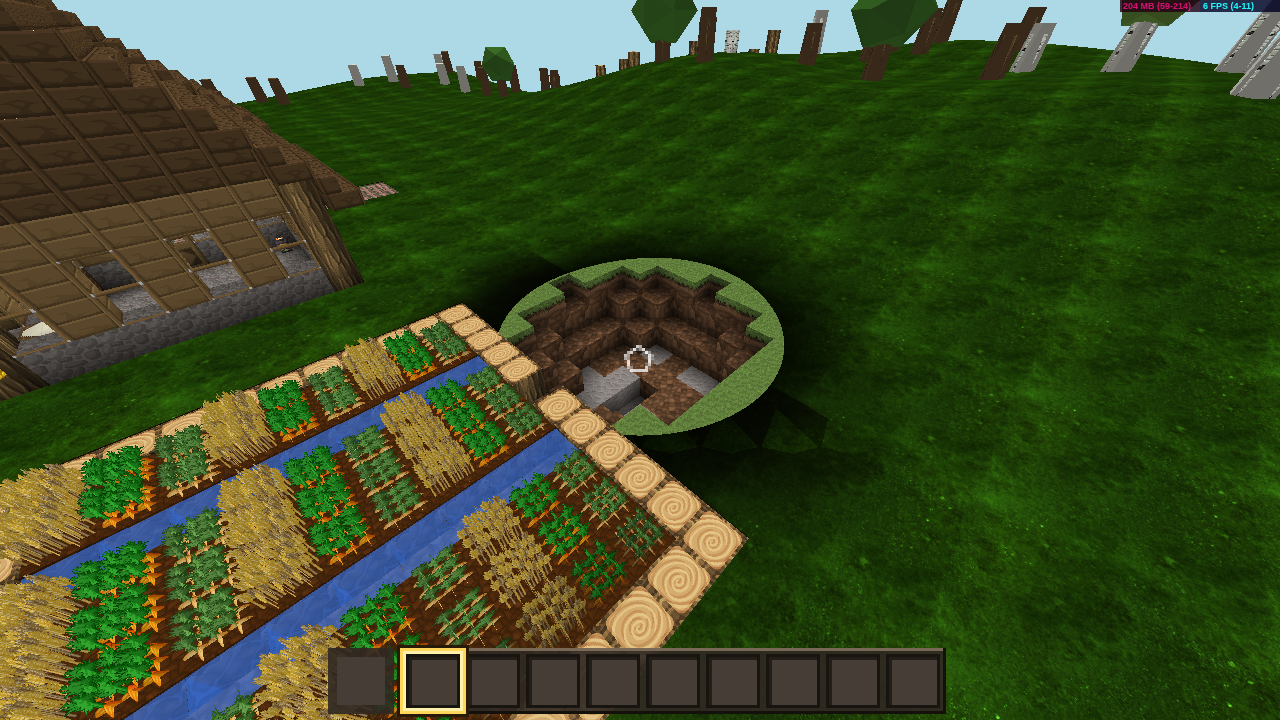
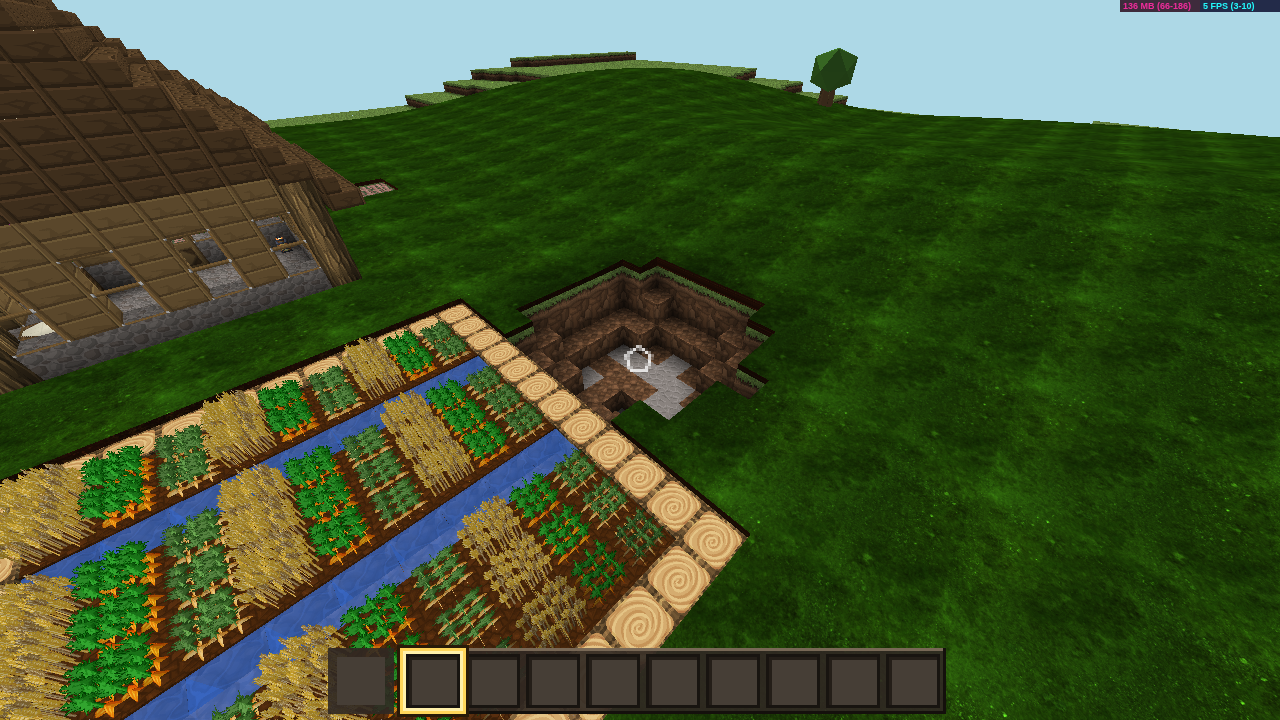
Surface: crater cut per removed block (no sphere disc, subtle scorch), no z-fighting (blocks sit below polygons), Duke faces culled from outside + skyline capped, far clip against unloaded chunks, entity cap 400; screenshots

diff --git a/src/mashup/client/dukemap.ts b/src/mashup/client/dukemap.ts
@@ -9,7 +9,7 @@ export type VoxSource = { pos: number[], idx: number[], tc: number[] }
 export async function buildDukeMap (dm: any, base: string, tiles: Record<string, { w: number, h: number, avg?: number[] }>) {
   const { m, ox, oz, G, zref } = dm
   const W = m.walls; const S = m.sectors
-  const X = (bx: number) => ox + bx / 512; const Z = (by: number) => oz + by / 512; const Y = (bz: number) => G + (zref - bz) / 8192
+  const X = (bx: number) => ox + bx / 512; const Z = (by: number) => oz + by / 512; const Y = (bz: number) => Math.min(G + 30, G + (zref - bz) / 8192) // skyline towers capped at 30 blocks
   const shadeC = (s: number) => Math.max(0.4, Math.min(1.7, 1.55 - s / 48))
   // ---- atlas
   const used = new Set<number>()
@@ -45,6 +45,12 @@ export async function buildDukeMap (dm: any, base: string, tiles: Record<string,
   const fz = (si: number, bx: number, by: number) => dm.floorZ(si, bx, by)
   const cz = (si: number, bx: number, by: number) => dm.ceilZ(si, bx, by)
   // ---- walls
+  let curSect = -1
+  const facesIn = (w: any, w2: any) => {
+    const dx = w2.x - w.x; const dy = w2.y - w.y; const l = Math.hypot(dx, dy) || 1
+    const mx = (w.x + w2.x) / 2 - dy / l * 24; const my = (w.y + w2.y) / 2 + dx / l * 24
+    return dm.sectorAt(mx, my) === curSect
+  }
   const wallQuad = (g: GeoBuilder, w: any, w2: any, z1a: number, z1b: number, z0a: number, z0b: number, pic: number, ref: number, sh: number) => {
     // z1 = top (smaller build z), z0 = bottom at both ends
     const t = tinfo(pic); if (!t) return
@@ -55,10 +61,11 @@ export async function buildDukeMap (dm: any, base: string, tiles: Record<string,
     const c = shadeC(sh); g.cur = avg(pic)
     const a = g.v(X(w.x), Y(z0a), Z(w.y), pan, vs(z0a), c, t); const b = g.v(X(w2.x), Y(z0b), Z(w2.y), pan + uL, vs(z0b), c, t)
     const d = g.v(X(w2.x), Y(z1b), Z(w2.y), pan + uL, vs(z1b), c, t); const e = g.v(X(w.x), Y(z1a), Z(w.y), pan, vs(z1a), c, t)
-    g.quad(a, b, d, e)
+    if (g !== solid || facesIn(w, w2)) g.quad(a, b, d, e); else g.quad(b, a, e, d)
     void tw
   }
   S.forEach((s: any, si: number) => {
+    curSect = si
     for (let i = s.wallptr; i < s.wallptr + s.wallnum; i++) {
       const w = W[i]; const w2 = W[w.p2]
       const fa = fz(si, w.x, w.y); const fb = fz(si, w2.x, w2.y); const ca = cz(si, w.x, w.y); const cb = cz(si, w2.x, w2.y)
@@ -96,7 +103,13 @@ export async function buildDukeMap (dm: any, base: string, tiles: Record<string,
       const c = shadeC(sh); solid.cur = avg(pic)
       const base = solid.n
       for (const p of pts) solid.v(X(p.x), Y(zf(p.x, p.y)), Z(p.y), p.x / 16, p.y / 16, c, t)
-      for (const [a, b, d] of tris) flip ? solid.tri(base + a, base + d, base + b) : solid.tri(base + a, base + b, base + d)
+      for (const [a, b, d] of tris) {
+        // floors face up, ceilings face down (FrontSide: from outside/below the level you look into it, no dark box)
+        const A = pts[a]; const B = pts[b]; const D = pts[d]
+        const ny = (B.y - A.y) * (D.x - A.x) - (B.x - A.x) * (D.y - A.y)
+        const up = ny > 0
+        if (up !== flip) solid.tri(base + a, base + b, base + d); else solid.tri(base + a, base + d, base + b)
+      }
     }
     plane(s.fpic, s.fshade, (x, y) => fz(si, x, y), false)
     if (!(s.cstat & 1)) plane(s.cpic, s.cshade, (x, y) => cz(si, x, y), true)
@@ -126,7 +139,7 @@ export async function buildDukeMap (dm: any, base: string, tiles: Record<string,
     } else { quad(1, 0); quad(0, 1) } // face sprite -> static cross billboard (cheap, merged)
   }
   const mk = (g: GeoBuilder, alpha: boolean) => {
-    const mat = surfaceMaterial({ map: atlas, atlas: true, side: THREE.DoubleSide, alphaTest: alpha ? 0.5 : undefined })
+    const mat = surfaceMaterial({ map: atlas, atlas: true, side: alpha ? THREE.DoubleSide : THREE.FrontSide, alphaTest: alpha ? 0.5 : undefined })
     mat.uniforms.uAtlas.value.set(AW, AH)
     const mesh = new THREE.Mesh(g.build(), mat)
     mesh.name = alpha ? 'duke-masked' : 'duke-level'

diff --git a/src/mashup/client/surface.ts b/src/mashup/client/surface.ts
@@ -5,7 +5,7 @@
 // all meshes via a shared hole list and get a mesh-to-voxel rim (cut triangles voxelised into colour-matched blocks).
 import * as THREE from 'three'
 import { Vec3 } from 'vec3'
-import { surfaceMaterial, loadTex, GeoBuilder, addHoleUniform, dayUniform, inHole } from './surfmat'
+import { surfaceMaterial, loadTex, GeoBuilder, addHoleUniform, dayUniform, farUniform, inHole } from './surfmat'
 import { buildDukeMap, VoxSource } from './dukemap'
 import { buildZoneMeshes } from './zonemesh'
 import { triBoxOverlap } from '../surface/voxelize'
@@ -107,7 +107,7 @@ export async function initSurface () {
     let complete = true
     for (let i = 0; i < CS; i++) {
       for (let k = 0; k < CS; k++) {
-        const h = Math.floor(Math.min(H(i, k), H(i + 1, k), H(i, k + 1), H(i + 1, k + 1)) - 0.01) - 1
+        const h = Math.floor(Math.min(H(i, k), H(i + 1, k), H(i, k + 1), H(i + 1, k + 1)) - 0.15) - 1
         hh[i * CS + k] = h
         const top = blockName(x0 + i, h, z0 + k)
         if (top === undefined || top === null) { if (bot.world.getColumnAt?.(new Vec3(x0 + i, 0, z0 + k)) == null) complete = false; continue }
@@ -194,7 +194,7 @@ export async function initSurface () {
     const dm = (globalThis as any).blockmashDuke
     if (dm && n?.name === 'air' && o.name !== 'air' && o.name !== 'barrier') {
       const c = dm.col(p.x, p.z)
-      if (c && c.kind === 1 && p.y === c.top - 1) server.blockmash.addHole(p.x + 0.5, c.top + 0.3, p.z + 0.5, 0.95)
+      if (c && c.kind === 1 && p.y === c.top - 2 && !inHole(p.x + 0.5, c.top, p.z + 0.5)) server.blockmash.addHole(p.x + 0.5, c.top + 0.3, p.z + 0.5, 0.95)
     }
   })
   bot.on('chunkColumnLoad', (p: any) => { for (const [dx, dz] of [[0, 0], [16, 0], [0, 16], [16, 16]]) dirtyAt(p.x + dx - 8, p.z + dz - 8); dirtyAt(p.x, p.z); dirtyAt(p.x + 15, p.z + 15) })
@@ -252,7 +252,6 @@ export async function initSurface () {
       }
     }
     if (cells.size) void server.blockmash.surfaceVoxels([...cells.values()].slice(0, 600))
-    crater(h)
   }
   // scorch decal on the ground around the crater (soft dark disc, drawn on top of terrain)
   const decalTex = (() => {
@@ -294,7 +293,7 @@ export async function initSurface () {
         if (c.kind !== 1) return null
         const f = dmm.floorAt(x, z)
         if (!f || inHole(x, f.y, z, 0.25)) return null
-        if (blockName(Math.floor(x), c.top - 1, Math.floor(z)) === 'air') return null
+        if (blockName(Math.floor(x), c.top - 2, Math.floor(z)) === 'air') return null
         return f.y
       }
     }
@@ -321,7 +320,17 @@ export async function initSurface () {
   }
 
   // ---------------- per-frame driver
-  let lastZones = 0
+  let lastZones = 0; let lastFar = 0
+  const updateFar = (p: any) => {
+    let r = 16
+    for (let d = 16; d <= 256; d += 16) {
+      let ok = true
+      for (let a = 0; a < 8 && ok; a++) { const x = p.x + Math.cos(a * Math.PI / 4) * d; const z = p.z + Math.sin(a * Math.PI / 4) * d; if (bot.world.getColumnAt?.(new Vec3(Math.floor(x), 0, Math.floor(z))) == null) ok = false }
+      if (!ok) break
+      r = d
+    }
+    farUniform.value.set(p.x, p.z, Math.max(24, r - 10))
+  }
   const tick = () => {
     requestAnimationFrame(tick)
     const p = bot.entity?.position; if (!p) return
@@ -346,6 +355,7 @@ export async function initSurface () {
       if (ch.trees) { root.remove(ch.trees); ch.trees.geometry.dispose() }
       chunks.delete(k)
     }
+    if (performance.now() - lastFar > 500) { lastFar = performance.now(); updateFar(p) } else farUniform.value.x = p.x, farUniform.value.y = p.z
     if (performance.now() - lastZones > 2000) { lastZones = performance.now(); updateZones() }
     liftMobs()
     for (const zg of zoneGroups) {

diff --git a/src/mashup/client/surfmat.ts b/src/mashup/client/surfmat.ts
@@ -7,6 +7,8 @@ export const MAX_HOLES = 64
 export const holeUniform = { value: Array.from({ length: MAX_HOLES }, () => new THREE.Vector4(0, -1000, 0, 0)) }
 export const holeCount = { value: 0 }
 export const dayUniform = { value: 1 }
+/** xz of the player + radius of loaded block terrain: meshes are clipped there so nothing floats beyond loaded chunks */
+export const farUniform = { value: new THREE.Vector3(0, 0, 1e6) }
 export const holes: Array<{ x: number, y: number, z: number, r: number }> = []
 
 export function addHoleUniform (h: { x: number, y: number, z: number, r: number }) {
@@ -19,15 +21,19 @@ export const inHole = (x: number, y: number, z: number, pad = 0) => holes.some(h
 
 const HOLE_GLSL = /* glsl */`
 uniform vec4 uHoles[${MAX_HOLES}];
+uniform vec3 uFar;
 uniform int uHoleN;
 float holeShade (vec3 p) {
   float s = 1.0;
+  if (distance(p.xz, uFar.xy) > uFar.z) discard;
   for (int i = 0; i < ${MAX_HOLES}; i++) {
     if (i >= uHoleN) break;
     vec4 h = uHoles[i];
     float d = distance(p, h.xyz);
+    #ifndef NOHOLE
     if (d < h.w) discard;
-    s = min(s, mix(0.22, 1.0, clamp((d - h.w) / (0.7 * h.w + 0.3), 0.0, 1.0)));
+    #endif
+    s = min(s, mix(0.72, 1.0, clamp((d - h.w * 0.85) / (0.45 * h.w + 0.3), 0.0, 1.0)));
   }
   return s;
 }`
@@ -38,11 +44,12 @@ const white = () => { if (!whiteTex) { whiteTex = new THREE.DataTexture(new Uint
 type Opts = { map?: THREE.Texture | null, atlas?: boolean, alphaTest?: number, side?: THREE.Side, terrain?: boolean, textures?: THREE.Texture[] }
 
 export function surfaceMaterial (o: Opts = {}) {
-  const uniforms: Record<string, any> = { uHoles: holeUniform, uHoleN: holeCount, uDay: dayUniform, map: { value: o.map ?? white() }, uAtlas: { value: new THREE.Vector2(1, 1) } }
+  const uniforms: Record<string, any> = { uFar: farUniform, uHoles: holeUniform, uHoleN: holeCount, uDay: dayUniform, map: { value: o.map ?? white() }, uAtlas: { value: new THREE.Vector2(1, 1) } }
   const defs: Record<string, any> = {}
   if (o.atlas) defs.ATLAS = 1
   if (o.terrain) {
     defs.TERRAIN = 1
+    defs.NOHOLE = 1 // terrain is cut per removed block (cells vanish), not by a sphere
     if ((o as any).texNorm) defs.TEXNORM = 1
     o.textures!.forEach((t, i) => { uniforms['t' + i] = { value: t } })
   }

diff --git a/src/mashup/client/zonemesh.ts b/src/mashup/client/zonemesh.ts
@@ -97,7 +97,7 @@ function buildDarkMod (rx: number, rz: number, seed: number) {
     for (let t = -1; t <= 129; t += 1) {
       const [u, v] = f(t); const [u2, v2] = f(t + 0.01)
       const dx = u2 - u; const dz = v2 - v; const l = Math.hypot(dx, dz); const nx = -dz / l * 3.2; const nz = dx / l * 3.2
-      const y = G + 1.04
+      const y = G + 1.25
       const a = cob.v(ox + u + nx, y, oz + v + nz, t / 3, 0, 1); const c = cob.v(ox + u - nx, y, oz + v - nz, t / 3, 6.4 / 3, 1)
       if (prev) cob.quad(prev[0], prev[1], c, a)
       prev = [a, c]
@@ -108,7 +108,7 @@ function buildDarkMod (rx: number, rz: number, seed: number) {
   for (let k = 0; k < N; k++) {
     const a0 = k / N * Math.PI * 2; const a1 = (k + 1) / N * Math.PI * 2
     const pt = (a: number, r: number, y: number) => cob.v(ox + 64 + Math.cos(a) * r, y, oz + 64 + Math.sin(a) * r, Math.cos(a) * r / 3, Math.sin(a) * r / 3, 1)
-    cob.quad(pt(a0, 3.5, G + 1.05), pt(a1, 3.5, G + 1.05), pt(a1, 9.3, G + 1.05), pt(a0, 9.3, G + 1.05))
+    cob.quad(pt(a0, 3.5, G + 1.26), pt(a1, 3.5, G + 1.26), pt(a1, 9.3, G + 1.26), pt(a0, 9.3, G + 1.26))
     const st = bag(b, 'stone'); st.cur = COL.stone
     st.wall(ox + 64 + Math.cos(a0) * 3.5, oz + 64 + Math.sin(a0) * 3.5, ox + 64 + Math.cos(a1) * 3.5, oz + 64 + Math.sin(a1) * 3.5, G + 0.9, G + 2, 0.8)
     st.wall(ox + 64 + Math.cos(a1) * 2.5, oz + 64 + Math.sin(a1) * 2.5, ox + 64 + Math.cos(a0) * 2.5, oz + 64 + Math.sin(a0) * 2.5, G + 0.9, G + 2, 0.7)
@@ -162,7 +162,7 @@ function buildYorg (rx: number, rz: number) {
   }
   const road = new GeoBuilder(); road.cur = COL.asphalt
   const kerb = new GeoBuilder()
-  const y = G + 1.03
+  const y = G + 1.24
   const STEP = 1
   for (let s = 0; s < L; s += STEP) {
     const p = at(s); const q = at(s + STEP)

diff --git a/src/mashup/layout.js b/src/mashup/layout.js
@@ -70,9 +70,9 @@ function columnInfo (x, z, seed) {
     w = smoothstep(1 - Math.hypot(dx, dz) / core.blend)
   }
   // smooth surface height (float) of the polygon terrain; the block layer stays just below it:
-  // top block y = h, its top face h + 1 <= hs - 0.01 (zones: hs = G + 1.03, so h = G as before)
-  const hs = lerp(nat + 1, G + 1.03, w)
-  const h = Math.floor(hs - 0.01) - 1
+  // top block y = h, its top face h + 1 <= hs - 0.01 (zones: hs = G + 1.2, so h = G as before)
+  const hs = lerp(nat + 1, G + 1.2, w)
+  const h = Math.floor(hs - 0.15) - 1
   const inCore = !!core && lx >= core.c0 && lx < core.c1 && lz >= core.c0 && lz < core.c1
   const biome = w > 0.5 ? (biomeAt(x, z, seed, h) === 'snowy' ? 'snowy' : 'plains') : biomeAt(x, z, seed, h)
   return { rx, rz, lx, lz, type, w, h, hs, G, inCore, u: core ? lx - core.c0 : 0, v: core ? lz - core.c0 : 0, biome }
@@ -90,7 +90,7 @@ function surfaceHeight (x, z, seed) {
   const dx = Math.max(core.c0 - lx, 0, lx - (core.c1 - 1))
   const dz = Math.max(core.c0 - lz, 0, lz - (core.c1 - 1))
   const w = smoothstep(1 - Math.hypot(dx, dz) / core.blend)
-  return lerp(nat + 1, G + 1.03, w)
+  return lerp(nat + 1, G + 1.2, w)
 }
 
 /** deterministic tree per 6x6 cell (shared by the block generator = hidden trunk and the client = low-poly tree) */

diff --git a/src/mashup/generator.js b/src/mashup/generator.js
@@ -78,10 +78,10 @@ function generation ({ version, seed = 1 } = {}) {
         const x = chunkX * 16 + i; const z = chunkZ * 16 + k
         const info = layout.columnInfo(x, z, seed)
         // block top must stay below all 4 corners of the smooth surface cell above it
-        info.h = Math.floor(Math.min(HS[i * 17 + k], HS[(i + 1) * 17 + k], HS[i * 17 + k + 1], HS[(i + 1) * 17 + k + 1]) - 0.01) - 1
+        info.h = Math.floor(Math.min(HS[i * 17 + k], HS[(i + 1) * 17 + k], HS[i * 17 + k + 1], HS[(i + 1) * 17 + k + 1]) - 0.15) - 1
         const dcol = dm && dm.col(x, z)
         const inDuke = dcol && dcol.kind !== 0
-        if (inDuke) { info.h = dcol.top - 1; info.biome = 'plains'; info.w = 1; info.G = dcol.top - 1 }
+        if (inDuke) { info.h = dcol.top - 2; info.biome = 'plains'; info.w = 1; info.G = dcol.top - 2 } // block top 1 below the polygon floor (no z-fighting)
         const { h, biome } = info
         col.fill(AIR)
         const put = (y, spec, force = true) => {

diff --git a/src/mashup/serverPlugin.js b/src/mashup/serverPlugin.js
@@ -224,7 +224,8 @@ module.exports = function installBlockMash (serv) {
   }
   bm.primeTnt = (p, fuseMs = 4000) => {
     const id = E('tnt')
-    const obj = id !== undefined ? serv.spawnObject(id, serv.overworld, p.offset(0.5, 0, 0.5), { velocity: new Vec3(0, 3, 0) }) : null
+    let obj = null
+    try { if (id !== undefined) obj = serv.spawnObject(id, serv.overworld, p.offset(0.5, 0, 0.5), { velocity: new Vec3(0, 3, 0) }) } catch {} // entity cap: still explode
     serv.playSound('entity.tnt.primed', serv.overworld, p)
     setTimeout(() => {
       if (obj) serv.destroyEntity(obj)

diff --git a/src/defaultLocalServerOptions.js b/src/defaultLocalServerOptions.js
@@ -32,7 +32,7 @@ module.exports = {
   },
   keepAlive: false,
   'everybody-op': true,
-  'max-entities': 100,
+  'max-entities': 400,
   'version': '1.14.4',
   versionMajor: '1.14'
 }
